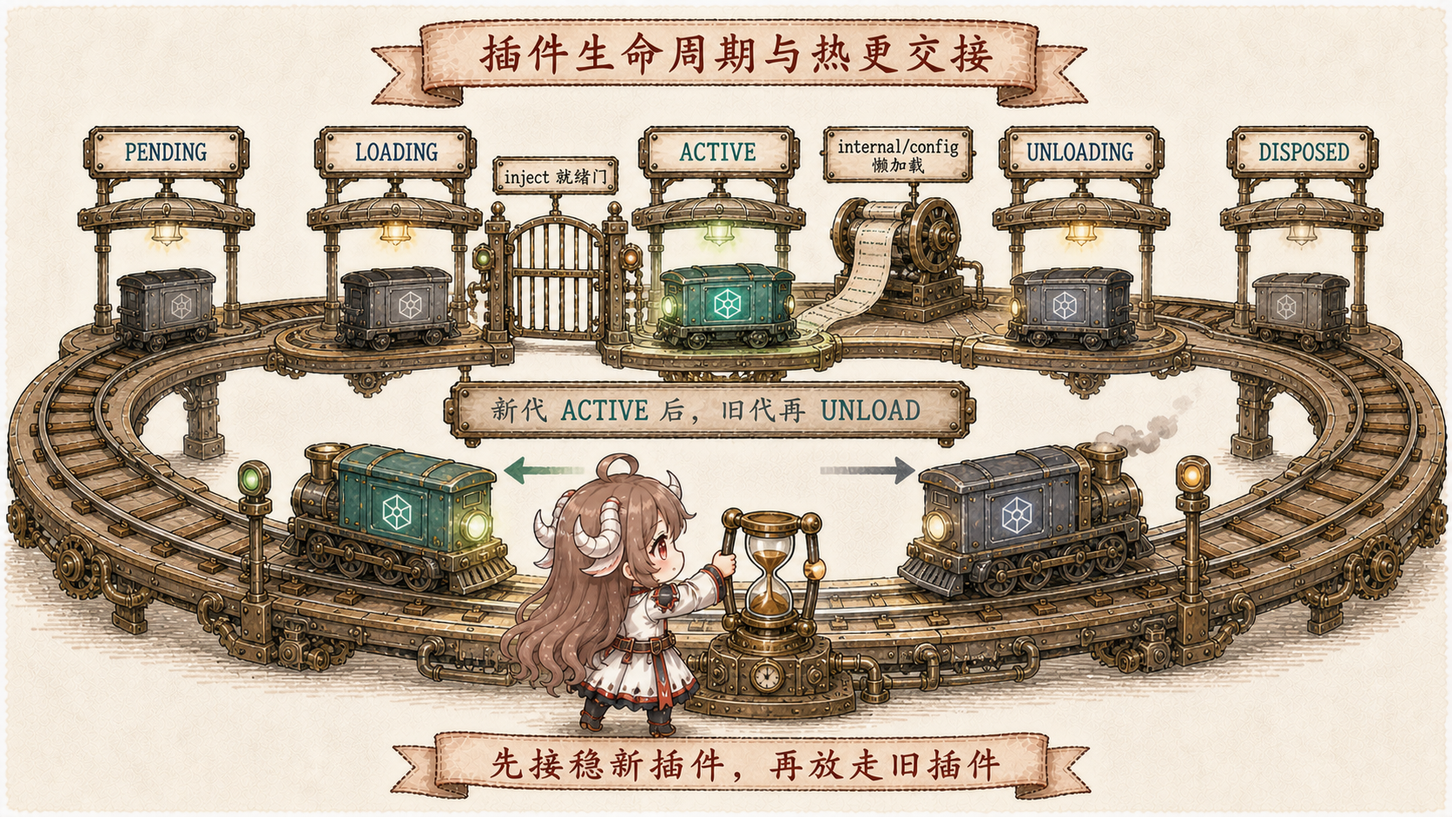
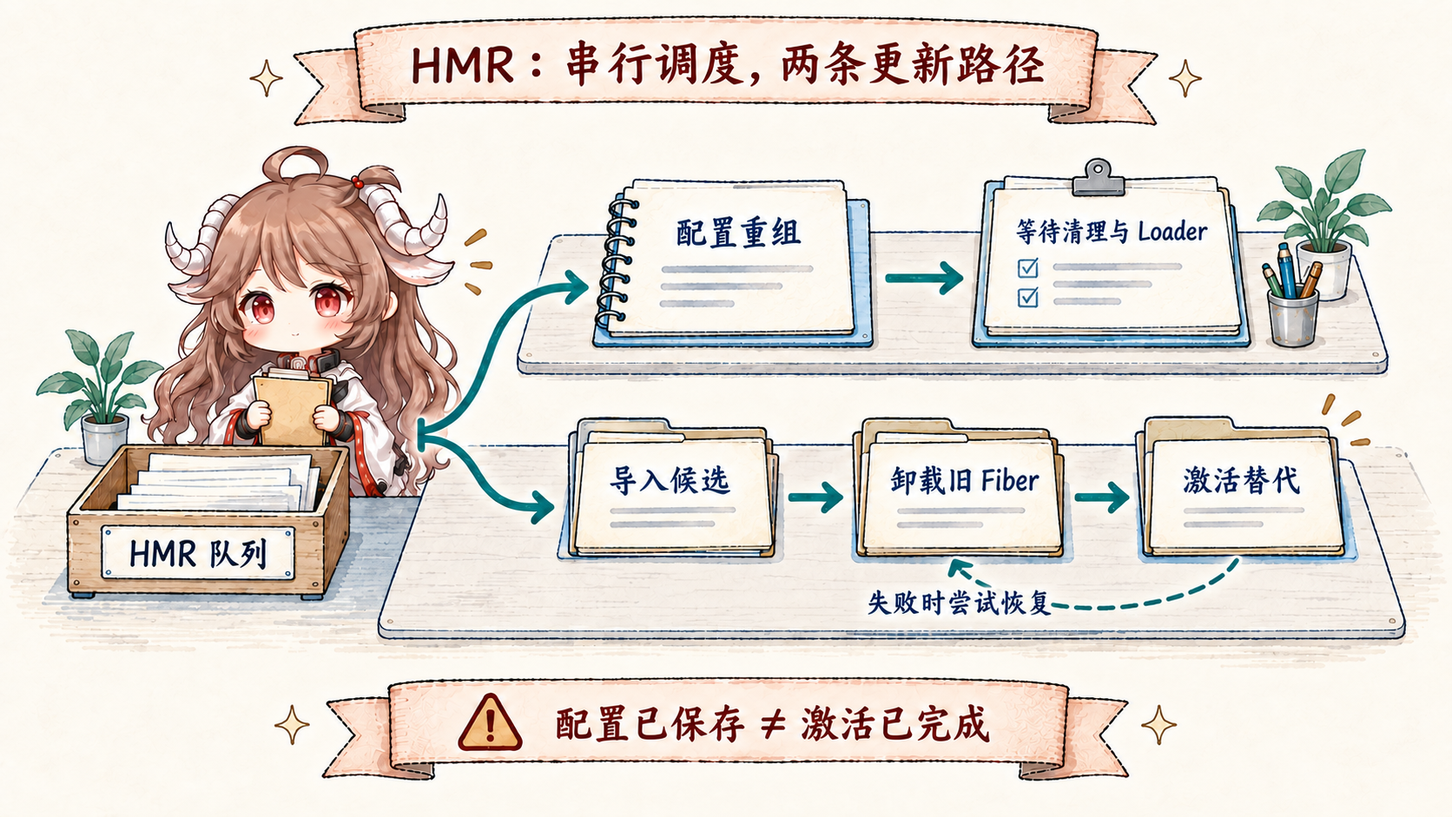
Update Cordis composition and coordinated HMR lifecycle

diff --git a/deepseek-harness/en/cordis-composition/index.html b/deepseek-harness/en/cordis-composition/index.html
@@ -10,18 +10,18 @@
   <div class="article-shell"><aside class="toc-panel" aria-label="Table of contents"><div class="toc-title">Contents</div><nav id="toc" class="toc-nav"></nav></aside><main class="article-main"><article class="article-card">
     <section class="article-hero"><p class="eyebrow">DeepSeek Harness source notes · Part II</p><h1>How “Everything is a Plugin” becomes Cordis</h1>
       <p class="lead">Dynamic import is the easy part of a plugin system. The hard parts are deterministic overrides, activation only after dependencies settle, local replacement without global contamination, and complete teardown. DSH compresses those concerns into patches, Context, Service, and Fiber.</p>
-      <div class="meta-line"><span>Part 2 / 7</span><span>Snapshot: b150a55</span><span>Topic: composition and lifecycle</span><span>Kernel: vendored Cordis</span></div>
+      <div class="meta-line"><span>Part 2 / 7</span><span>Snapshot: ddefc45</span><span>Topic: composition and lifecycle</span><span>Kernel: vendored Cordis</span></div>
       <nav class="series-strip"><a href="../runtime-route/"><strong>01</strong> Runtime</a><span class="series-current"><strong>02</strong> Cordis</span><a href="../event-sourced-session/"><strong>03</strong> Session events</a><a href="../governed-effects/"><strong>04</strong> Effects</a><a href="../compaction-reconstruction/"><strong>05</strong> Compaction</a><a href="../multi-agent-runtime/"><strong>06</strong> Multi-agent</a><a href="../self-referential-runtime/"><strong>07</strong> Self-reference</a><a href="../"><strong>Route map</strong></a></nav>
       <figure class="hero-image"><img src="../assets/cordis-composition-route.png" alt="DeepSeek Harness Cordis composition route: Bundle, profile, home, and command-line patches pass through applyEntryPatches into EntryOptions and mount as a lifecycle-managed Context tree" /></figure>
     </section><section class="article-body">
       <p>Part I crossed more than a dozen plugins in one turn: a model adapter prepared the request, prompt and tool assemblies met before a step, persistence subscribed to SessionEvent, approval and sandbox plugins governed effects, and Web observed the same run. Why can those components be replaced without trampling startup order, dependencies, and cleanup?</p>
       <p>The answer is not a single plugin-manager object but two complementary protocols. Before boot, <code>applyEntryPatches()</code> compresses several sources into one deterministic configuration tree. After boot, Cordis <code>Context</code>, <code>Service</code>, and <code>Fiber</code> decide where a capability is visible, when it may activate, and who releases it.</p>
-      <div class="note"><p><strong>Reading contract.</strong>After this chapter, you should be able to explain why a profile override must restate a complete config; why <code>!!js</code> must not evaluate during a config dump; how <code>extend()</code> and <code>isolate()</code> produce different service resolution; why a plugin stays PENDING without an injection; and why HMR settles a new generation before retiring the old one.</p></div>
-      <p><strong>Evidence boundary.</strong>The chapter remains pinned to <a href="https://github.com/deepseek-ai/deepseek-harness/commit/b150a551b8d465e31e418e1b2eaf5e79bbb7d28e"><code>b150a55</code></a>. DSH carries its patched Cordis fork under <code>vendor/</code>, so Context, Service, and Fiber claims come from the same snapshot. These contracts do not imply that every third-party plugin is safe or compatible.</p>
+      <div class="note"><p><strong>Reading contract.</strong>After this chapter, you should be able to explain why a profile override must restate a complete config; why <code>!!js</code> must not evaluate during a config dump; how <code>extend()</code> and <code>isolate()</code> produce different service resolution; why a plugin stays PENDING without an injection; and why configuration reconciliation and module replacement share one HMR queue without sharing one transaction guarantee.</p></div>
+      <p><strong>Evidence boundary.</strong>The chapter is pinned to <a href="https://github.com/deepseek-ai/deepseek-harness/commit/ddefc45fbc7f8e46dd73185e68295696d1297887"><code>ddefc45</code></a>. DSH carries its patched Cordis fork under <code>vendor/</code>, so Context, Service, and Fiber claims come from the same snapshot. These contracts do not imply that every third-party plugin is safe or compatible.</p>
 
       <h2>1. Compose one tree before anything starts</h2>
       <h3>1.1 Boot and dump share the same algorithm</h3>
-      <p><a href="https://github.com/deepseek-ai/deepseek-harness/blob/b150a551b8d465e31e418e1b2eaf5e79bbb7d28e/vendor/include/src/index.ts#L18-L144"><code>vendor/include</code></a> exports the pure function <code>applyEntryPatches(data, patches, warn)</code>. <code>composeEntries()</code>, the boot include, and <code>dsh --dump-config</code> all call it instead of implementing approximate merges. The diagnostic tree and mounted tree therefore share one id index, insertion order, and warning policy.</p>
+      <p><a href="https://github.com/deepseek-ai/deepseek-harness/blob/ddefc45fbc7f8e46dd73185e68295696d1297887/vendor/include/src/index.ts#L43-L126"><code>vendor/include</code></a> exports the pure function <code>applyEntryPatches(data, patches, warn)</code>. <code>composeEntries()</code>, the boot include, and <code>dsh --dump-config</code> all call it instead of implementing approximate merges. The diagnostic tree and mounted tree therefore share one id index, insertion order, and warning policy.</p>
       <p>This prevents a subtle but severe failure: a dump tool that deep-merges while boot replaces whole objects could show a valid-looking configuration that never runs. DSH prefers an explicit failure over a split between displayed and effective configuration.</p>
 
       <h3>1.2 A patch is an ordered operation, not YAML deep merge</h3>
@@ -35,11 +35,11 @@
     - id: local-plugin
       name: ./local-plugin.mjs</code></pre>
       <p><code>!!js</code> is not arbitrary code executed by the YAML parser. It remains an expression node. The Loader waits until declared injections are active, then resolves it through <code>internal/config</code> in the entry's own context. <code>--dump-config</code> prints the expression verbatim, so a diagnostic command does not depend on runtime environment or trigger its effects.</p>
-      <p>An entry inserted earlier in one list is immediately indexed, allowing later patches to configure or disable it. An unmatched id is not swallowed; it is sent to <code>warn()</code> with its layer label. A misspelled plugin id becomes a visible diagnostic.</p>
+      <p>An entry inserted earlier in one list is immediately indexed, allowing later patches to configure or disable it. An unmatched id is sent to <code>warn()</code> rather than swallowed; config dumps also identify its layer. A misspelled plugin id becomes a visible diagnostic.</p>
 
       <h2>2. Context defines the local world of service resolution</h2>
       <h3>2.1 The root Context installs four built-in services</h3>
-      <p><a href="https://github.com/deepseek-ai/deepseek-harness/blob/b150a551b8d465e31e418e1b2eaf5e79bbb7d28e/vendor/cordis/src/context.ts"><code>Context</code></a> constructs a root Fiber and installs reflect, registry, events, and logger. Context is a Proxy: normal property reads go through the service resolver, while methods such as <code>ctx.plugin()</code>, <code>ctx.inject()</code>, and <code>ctx.on()</code> are mixed in by the built-ins.</p>
+      <p><a href="https://github.com/deepseek-ai/deepseek-harness/blob/ddefc45fbc7f8e46dd73185e68295696d1297887/vendor/cordis/src/context.ts#L43-L146"><code>Context</code></a> constructs a root Fiber and installs reflect, registry, events, and logger. Context is a Proxy: normal property reads go through the service resolver, while methods such as <code>ctx.plugin()</code>, <code>ctx.inject()</code>, and <code>ctx.on()</code> are mixed in by the built-ins.</p>
       <p>A plugin's <code>ctx</code> is therefore not a global service bag. It is a scoped view carrying a parent chain, isolation map, intercept map, and current Fiber. Two plugins reading <code>ctx.llm</code> can resolve different providers when their scope labels differ.</p>
 
       <h3>2.2 extend inherits; isolate redirects one service domain</h3>
@@ -55,35 +55,37 @@
 
       <h2>3. Service couples capability registration to ownership</h2>
       <h3>3.1 Constructing a Service registers the provider</h3>
-      <p>The <a href="https://github.com/deepseek-ai/deepseek-harness/blob/b150a551b8d465e31e418e1b2eaf5e79bbb7d28e/vendor/cordis/src/service.ts"><code>Service</code></a> base calls <code>ctx.reflect.provide(name, this, check)</code> from its constructor. This is not a raw Map write: the provide operation becomes an effect owned by the current Fiber, and the provider disappears automatically when that Fiber unloads.</p>
+      <p>The <a href="https://github.com/deepseek-ai/deepseek-harness/blob/ddefc45fbc7f8e46dd73185e68295696d1297887/vendor/cordis/src/service.ts#L32-L102"><code>Service</code></a> base calls <code>ctx.reflect.provide(name, this, check)</code> from its constructor. This is not a raw Map write: the provide operation becomes an effect owned by the current Fiber, and the provider disappears automatically when that Fiber unloads.</p>
       <pre><code class="language-typescript">export class SessionStore extends Service {
   constructor(ctx: Context) {
     super(ctx, 'sessions')
   }
 }
 
-ctx.plugin(SessionStore)
+await ctx.plugin(SessionStore)
 const store = ctx.get('sessions')</code></pre>
       <p>That removes the dangling state in which a plugin has unloaded but its service still points at an old instance. Callable services, Config schemas, and intercept configuration stay on the same contract. Consumers declare injection names rather than importing a concrete provider.</p>
 
       <h3>3.2 Injection is an activation condition, not a later null check</h3>
-      <p>After a runtime declares required services, Registry creates a Fiber. Missing dependencies keep it <code>PENDING</code>. When providers appear, the Fiber snapshots their implementations, validates configuration, and enters <code>LOADING</code>; only a completed callback and init hooks make it <code>ACTIVE</code>. Provider replacement or disappearance unloads the old activation or returns it to a waiting path.</p>
+      <p>After a runtime declares required services, Registry creates a Fiber. Missing dependencies keep it <code>PENDING</code>. When providers appear, the Fiber enters <code>LOADING</code>, snapshots their implementations, then resolves and validates configuration; only a completed callback and init hooks make it <code>ACTIVE</code>. Provider replacement or disappearance unloads the old activation or returns it to a waiting path.</p>
       <p>Startup order thus becomes a dependency graph rather than handwritten sequencing. Entry order still affects the tree and hook order, but an unavailable capability is never represented as an active plugin that may fail later at an arbitrary read.</p>
 
       <h2>4. Fiber turns lifecycle into structured ownership</h2>
       <h3>4.1 Every effect belongs to the current Fiber</h3>
-      <p><a href="https://github.com/deepseek-ai/deepseek-harness/blob/b150a551b8d465e31e418e1b2eaf5e79bbb7d28e/vendor/cordis/src/fiber.ts"><code>Fiber</code></a> tracks validated configuration, required-service snapshots, effects, disposers, errors, and state transitions. Resources created through <code>ctx.on()</code>, <code>ctx.provide()</code>, or <code>ctx.effect()</code> join that Fiber and dispose in reverse registration order.</p>
-      <p>Reverse order is meaningful. If a plugin starts a worker and then registers a listener, teardown should stop accepting new events before terminating the worker. Async disposers are awaited, and concurrent disposal joins the same cleanup rather than running it twice.</p>
+      <p><a href="https://github.com/deepseek-ai/deepseek-harness/blob/ddefc45fbc7f8e46dd73185e68295696d1297887/vendor/cordis/src/fiber.ts#L574-L711"><code>Fiber</code></a> tracks validated configuration, required-service snapshots, effects, disposers, errors, and state transitions. Resources created through <code>ctx.on()</code>, <code>ctx.provide()</code>, or <code>ctx.effect()</code> join that Fiber; unload starts disposers in reverse registration order and waits for all of them to settle.</p>
+      <p>Reverse order means later synchronous cleanup starts first. Because <code>_unload()</code> awaits the batch with <code>Promise.all</code>, asynchronous disposers need not finish serially. If an event stream must finish stopping before a worker terminates, put both steps in one async disposer with an explicit await. Repeated disposal joins cleanup already in progress rather than executing it twice.</p>
 
-      <h3>4.2 HMR swaps generations instead of mutating one object</h3>
-      <figure class="hero-image"><img src="../assets/cordis-lifecycle-hmr.png" alt="A Cordis Fiber progresses from PENDING through LOADING and ACTIVE to UNLOADING and DISPOSED; injection gates activation, internal config resolves lazily, and watchUserPatches settles a new generation before the old one unloads" /></figure>
-      <p><a href="https://github.com/deepseek-ai/deepseek-harness/blob/b150a551b8d465e31e418e1b2eaf5e79bbb7d28e/packages/boot/app-boot/src/index.ts#L209-L264"><code>watchUserPatches()</code></a> hands profile and home patch changes to Cordis HMR. A refresh rereads include options, recomposes the complete patch list, and submits a new generation. Lazy config resolves again after declared injections become active, so provider replacement can change expression results.</p>
-      <p>Correct hot replacement briefly requires two ownership generations: the new one mounts and settles before the old one enters UNLOADING. Import, validation, or activation failure is surfaced rather than leaving half an apparently updated tree. For a long-running agent, this is much closer to a transaction than mutating a config object and emitting “changed.”</p>
+      <h3>4.2 HMR coordinates two different update paths</h3>
+      <figure class="hero-image"><img src="../assets/cordis-lifecycle-hmr.png" alt="DSH HMR queues configuration and module changes: configuration updates the original Include and awaits cleanup and Loader settlement; module replacement imports candidates, disposes old Fibers, activates replacements, and attempts recovery on failure" /></figure>
+      <p>Profile patches, home patches, and source files can change together. Independent refreshes would interleave old-entry cleanup with new-entry loading. Current <a href="https://github.com/deepseek-ai/deepseek-harness/blob/ddefc45fbc7f8e46dd73185e68295696d1297887/packages/boot/hmr/src/index.ts#L129-L171"><code>@deepseek-ai/dsh-hmr</code></a> serializes configuration writes, Include refreshes, and module replacements through <code>runExclusive()</code>, rejecting nested transactions. Package downloads and installation run outside the queue; successful installation enters configuration application afterward.</p>
+      <p>For configuration, HMR watches the profile bundle list and both user patch files. After application readiness, it rereads the layers and calls <a href="https://github.com/deepseek-ai/deepseek-harness/blob/ddefc45fbc7f8e46dd73185e68295696d1297887/packages/boot/app-boot/src/index.ts#L244-L276"><code>reconcileProfilePatches()</code></a> on the original root Include. Reconciliation awaits both previously held Fibers and the current Loader, so removed entries must finish asynchronous cleanup even after leaving the entry store. New or changed activation failures reject the application; unchanged pre-existing inactive entries become warnings. This is not a guarantee that the whole configuration tree rolls back automatically.</p>
+      <p>Source-module replacement follows a different order: <a href="https://github.com/deepseek-ai/deepseek-harness/blob/ddefc45fbc7f8e46dd73185e68295696d1297887/packages/boot/hmr/src/index.ts#L493-L579">import candidate modules, delete old registrations and await their Fibers, then register and await replacements</a>. Import failure restores module caches. Replacement activation failure removes the replacement, restores caches, and attempts to register the old implementation again. The old implementation has already stopped during that window, and recovery can itself fail; this is not a seamless exchange that keeps the old generation alive until the new one becomes ACTIVE.</p>
+      <p>For example, enabling a plugin whose required Service is missing may save the configuration but fail the application audit with PENDING. Repairing the dependency or disabling the entry is a separate next action. HMR also does not make every installed-package upgrade reloadable: Plugin Manager still requires a restart for package-version replacement. A profile without HMR reads configuration changes on its next startup.</p>
 
       <h2>5. Four questions locate composition failures</h2>
       <ol>
         <li><strong>Was the tree composed correctly?</strong>Use <code>--dump-config</code> to verify ids, insertion positions, layer sources, and whole-config replacement.</li>
-        <li><strong>Did the module resolve?</strong>Check the installation/profile anchors for bare specifiers and the entry's base URL.</li>
+        <li><strong>Did the module resolve?</strong>Check the profile module resolver, installation and profile dependency sources, and the entry's base URL.</li>
         <li><strong>Are dependencies satisfied?</strong>Inspect a PENDING Fiber and whether provider and consumer use the same isolation label.</li>
         <li><strong>Did lifecycle converge?</strong>Verify failed generations, provider replacement, and disposal—not merely whether the plugin callback ran once.</li>
       </ol>
@@ -91,10 +93,11 @@ const store = ctx.get('sessions')</code></pre>
       <p>Part III moves from the plugin tree to <code>SessionEvent</code>. When the loop, tools, and UI are replaceable, what remains the shared runtime fact? DSH's answer is that model-visible state must first enter a projectable event log.</p>
 
       <h2 id="sources">Source references</h2><ul>
-        <li><a href="https://github.com/deepseek-ai/deepseek-harness/blob/b150a551b8d465e31e418e1b2eaf5e79bbb7d28e/apps/cli/src/profile-boot.ts">profile-boot.ts</a> and <a href="https://github.com/deepseek-ai/deepseek-harness/blob/b150a551b8d465e31e418e1b2eaf5e79bbb7d28e/packages/boot/app-boot/src/profile.ts">profile.ts</a>: bundle, profile, home, and CLI patch layers.</li>
-        <li><a href="https://github.com/deepseek-ai/deepseek-harness/blob/b150a551b8d465e31e418e1b2eaf5e79bbb7d28e/vendor/include/src/index.ts">vendor/include</a>: PatchOptions, expression nodes, and applyEntryPatches.</li>
-        <li><a href="https://github.com/deepseek-ai/deepseek-harness/blob/b150a551b8d465e31e418e1b2eaf5e79bbb7d28e/vendor/cordis/src/context.ts">Context</a>, <a href="https://github.com/deepseek-ai/deepseek-harness/blob/b150a551b8d465e31e418e1b2eaf5e79bbb7d28e/vendor/cordis/src/service.ts">Service</a>, and <a href="https://github.com/deepseek-ai/deepseek-harness/blob/b150a551b8d465e31e418e1b2eaf5e79bbb7d28e/vendor/cordis/src/fiber.ts">Fiber</a>: scopes, capabilities, and lifecycle.</li>
-        <li><a href="https://github.com/deepseek-ai/deepseek-harness/blob/b150a551b8d465e31e418e1b2eaf5e79bbb7d28e/packages/boot/app-boot/README.md">app-boot README</a>: mounting, config dumps, user patches, and hot replacement.</li>
+        <li><a href="https://github.com/deepseek-ai/deepseek-harness/blob/ddefc45fbc7f8e46dd73185e68295696d1297887/apps/cli/src/profile-boot.ts">profile-boot.ts</a> and <a href="https://github.com/deepseek-ai/deepseek-harness/blob/ddefc45fbc7f8e46dd73185e68295696d1297887/packages/boot/app-boot/src/profile.ts">profile.ts</a>: bundle, profile, home, and CLI patch layers.</li>
+        <li><a href="https://github.com/deepseek-ai/deepseek-harness/blob/ddefc45fbc7f8e46dd73185e68295696d1297887/vendor/include/src/index.ts">vendor/include</a>: PatchOptions, expression nodes, and applyEntryPatches.</li>
+        <li><a href="https://github.com/deepseek-ai/deepseek-harness/blob/ddefc45fbc7f8e46dd73185e68295696d1297887/vendor/cordis/src/context.ts#L43-L146">Context</a>, <a href="https://github.com/deepseek-ai/deepseek-harness/blob/ddefc45fbc7f8e46dd73185e68295696d1297887/vendor/cordis/src/service.ts#L32-L102">Service</a>, and <a href="https://github.com/deepseek-ai/deepseek-harness/blob/ddefc45fbc7f8e46dd73185e68295696d1297887/vendor/cordis/src/fiber.ts#L574-L711">Fiber</a>: scopes, capabilities, and lifecycle.</li>
+        <li><a href="https://github.com/deepseek-ai/deepseek-harness/blob/ddefc45fbc7f8e46dd73185e68295696d1297887/packages/boot/app-boot/README.md">app-boot README</a>: mounting, config dumps, user patches, and activation diagnostics.</li>
+        <li><a href="https://github.com/deepseek-ai/deepseek-harness/blob/ddefc45fbc7f8e46dd73185e68295696d1297887/packages/boot/hmr/src/index.ts">DSH HMR</a>: the shared queue, configuration watches, module teardown, and failure recovery.</li>
       </ul>
     </section></article></main></div>
   <script defer src="../../../assets/vendor/highlightjs/highlight.min.js?v=11.11.1"></script><script defer src="../../../assets/code-highlight.js?v=1"></script><script defer src="../../../openclaw/article.js?v=1"></script>

diff --git a/deepseek-harness/zh/cordis-composition/index.html b/deepseek-harness/zh/cordis-composition/index.html
@@ -10,18 +10,18 @@
   <div class="article-shell"><aside class="toc-panel" aria-label="文章目录"><div class="toc-title">目录</div><nav id="toc" class="toc-nav"></nav></aside><main class="article-main"><article class="article-card">
     <section class="article-hero"><p class="eyebrow">DeepSeek Harness 源码笔记 · 第二篇</p><h1>“Everything is a Plugin” 怎样落到 Cordis</h1>
       <p class="lead">插件化最难的不是动态 import，而是配置覆盖不漂移、依赖就绪才激活、局部替换不污染全局，以及卸载时不留下资源。DSH 把这四个问题压进 patch、Context、Service 与 Fiber。</p>
-      <div class="meta-line"><span>系列 2 / 7</span><span>源码快照：b150a55</span><span>主题：组合与生命周期</span><span>内核：vendored Cordis</span></div>
+      <div class="meta-line"><span>系列 2 / 7</span><span>源码快照：ddefc45</span><span>主题：组合与生命周期</span><span>内核：vendored Cordis</span></div>
       <nav class="series-strip"><a href="../runtime-route/"><strong>01</strong> 运行主线</a><span class="series-current"><strong>02</strong> Cordis</span><a href="../event-sourced-session/"><strong>03</strong> 事件会话</a><a href="../governed-effects/"><strong>04</strong> 副作用</a><a href="../compaction-reconstruction/"><strong>05</strong> 压缩</a><a href="../multi-agent-runtime/"><strong>06</strong> 多 Agent</a><a href="../self-referential-runtime/"><strong>07</strong> 自指</a><a href="../"><strong>路线图</strong></a></nav>
       <figure class="hero-image"><img src="../assets/cordis-composition-route.png" alt="DeepSeek Harness Cordis 组合路线：Bundle、profile、home 与命令行 patch 经 applyEntryPatches 合成 EntryOptions，再挂载成具有生命周期的 Context 树" /></figure>
     </section><section class="article-body">
       <p>上一篇跟着一次 turn 经过了十几种插件：模型适配器装请求，prompt 与 tools 在 step 前汇合，持久化订阅 SessionEvent，approval 和 sandbox 截住副作用，Web 再观察同一运行。问题是：这些模块凭什么可以替换，却不会在启动顺序、依赖或清理上彼此踩踏？</p>
       <p>答案不是某个“插件管理器”对象，而是两层互补协议。启动前，<code>applyEntryPatches()</code> 把多个来源合成一棵确定配置树；启动后，Cordis 的 <code>Context</code>、<code>Service</code> 和 <code>Fiber</code> 决定能力在哪个作用域可见、何时激活、由谁释放。</p>
-      <div class="note"><p><strong>阅读契约。</strong>读完以后，你应该能判断：一个 profile 覆盖为什么要重述完整 config；<code>!!js</code> 为什么不能在 config dump 阶段求值；<code>extend()</code> 与 <code>isolate()</code> 怎样产生不同的 service 解析；缺少 injection 时插件为什么停在 PENDING；以及 HMR 为什么要先让新 generation 结算再退休旧 generation。</p></div>
-      <p><strong>证据边界。</strong>本文仍固定在 <a href="https://github.com/deepseek-ai/deepseek-harness/commit/b150a551b8d465e31e418e1b2eaf5e79bbb7d28e"><code>b150a55</code></a>。DSH 把带补丁的 Cordis fork 放在 <code>vendor/</code>，因此 Context、Service 与 Fiber 的结论直接来自同一仓库快照；它证明的是组合和清理语义，不等于任意第三方插件都安全或兼容。</p>
+      <div class="note"><p><strong>阅读契约。</strong>读完以后，你应该能判断：一个 profile 覆盖为什么要重述完整 config；<code>!!js</code> 为什么不能在 config dump 阶段求值；<code>extend()</code> 与 <code>isolate()</code> 怎样产生不同的 service 解析；缺少 injection 时插件为什么停在 PENDING；以及配置重组与模块替换为什么必须进入同一 HMR 队列，却不能被视为同一种事务。</p></div>
+      <p><strong>证据边界。</strong>本文固定在 <a href="https://github.com/deepseek-ai/deepseek-harness/commit/ddefc45fbc7f8e46dd73185e68295696d1297887"><code>ddefc45</code></a>。DSH 把带补丁的 Cordis fork 放在 <code>vendor/</code>，因此 Context、Service 与 Fiber 的结论直接来自同一仓库快照；它证明的是组合和清理语义，不等于任意第三方插件都安全或兼容。</p>
 
       <h2>一、启动前先把多层配置压成一棵树</h2>
       <h3>1.1 同一个算法同时服务 boot 和 dump</h3>
-      <p><a href="https://github.com/deepseek-ai/deepseek-harness/blob/b150a551b8d465e31e418e1b2eaf5e79bbb7d28e/vendor/include/src/index.ts#L18-L144"><code>vendor/include</code></a> 导出纯函数 <code>applyEntryPatches(data, patches, warn)</code>。<code>composeEntries()</code>、实际 boot include 与 <code>dsh --dump-config</code> 都调用它，而不是各自实现一套近似合并。于是诊断输出与真正挂载的树共享相同的 id 索引、插入顺序和警告规则。</p>
+      <p><a href="https://github.com/deepseek-ai/deepseek-harness/blob/ddefc45fbc7f8e46dd73185e68295696d1297887/vendor/include/src/index.ts#L43-L126"><code>vendor/include</code></a> 导出纯函数 <code>applyEntryPatches(data, patches, warn)</code>。<code>composeEntries()</code>、实际 boot include 与 <code>dsh --dump-config</code> 都调用它，而不是各自实现一套近似合并。于是诊断输出与真正挂载的树共享相同的 id 索引、插入顺序和警告规则。</p>
       <p>这个约束很重要。若 dump 使用深合并、boot 使用整对象替换，一份看似正确的诊断配置仍可能启动成另一棵树。DSH 宁愿让错误尽早暴露，也不接受“显示值”和“运行值”分叉。</p>
 
       <h3>1.2 patch 是有顺序的操作，不是 YAML 深合并</h3>
@@ -35,11 +35,11 @@
     - id: local-plugin
       name: ./local-plugin.mjs</code></pre>
       <p><code>!!js</code> 也不是 YAML 解析时立即执行的任意代码。Parser 把它保存成 expression node；Loader 等条目声明的 injections 可用以后，才在该条目自己的 context 中通过 <code>internal/config</code> 解析。<code>--dump-config</code> 则原样打印表达式，避免诊断命令因环境或副作用改变配置。</p>
-      <p>同一列表中，较早 <code>insert</code> 的条目会立刻进入 id 索引，后续 patch 可以继续配置或禁用它。未匹配的 id 不会静默吞掉，而是连同 layer label 交给 <code>warn()</code>。这让拼错插件 id 变成可见错误信号。</p>
+      <p>同一列表中，较早 <code>insert</code> 的条目会立刻进入 id 索引，后续 patch 可以继续配置或禁用它。未匹配的 id 不会静默吞掉，而是交给 <code>warn()</code>；config dump 还会标出对应 layer。这让拼错插件 id 变成可见错误信号。</p>
 
       <h2>二、Context 决定服务在哪个局部世界可见</h2>
       <h3>2.1 根 Context 先安装四个内建服务</h3>
-      <p><a href="https://github.com/deepseek-ai/deepseek-harness/blob/b150a551b8d465e31e418e1b2eaf5e79bbb7d28e/vendor/cordis/src/context.ts"><code>Context</code></a> 构造时创建根 Fiber，并安装 reflect、registry、events 与 logger。Context 本身是 Proxy：普通属性读取经过 service resolver，<code>ctx.plugin()</code>、<code>ctx.inject()</code>、<code>ctx.on()</code> 等方法则由内建服务混入。</p>
+      <p><a href="https://github.com/deepseek-ai/deepseek-harness/blob/ddefc45fbc7f8e46dd73185e68295696d1297887/vendor/cordis/src/context.ts#L43-L146"><code>Context</code></a> 构造时创建根 Fiber，并安装 reflect、registry、events 与 logger。Context 本身是 Proxy：普通属性读取经过 service resolver，<code>ctx.plugin()</code>、<code>ctx.inject()</code>、<code>ctx.on()</code> 等方法则由内建服务混入。</p>
       <p>所以插件拿到的 <code>ctx</code> 不是全局 service bag。它是一份带父链、isolation map、intercept map 与当前 Fiber 的作用域视图。两个插件即使都读取 <code>ctx.llm</code>，也可能因 scope label 不同而得到不同 provider。</p>
 
       <h3>2.2 extend 继承，isolate 改写某个 service 的解析域</h3>
@@ -55,35 +55,37 @@
 
       <h2>三、Service 把能力注册和所有权绑在一起</h2>
       <h3>3.1 构造 Service 就登记 provider</h3>
-      <p><a href="https://github.com/deepseek-ai/deepseek-harness/blob/b150a551b8d465e31e418e1b2eaf5e79bbb7d28e/vendor/cordis/src/service.ts"><code>Service</code></a> 基类在构造函数里调用 <code>ctx.reflect.provide(name, this, check)</code>。这个 provide 不是裸写 Map：注册动作成为 owning Fiber 的 effect，Fiber 卸载时 provider 自动移除。</p>
+      <p><a href="https://github.com/deepseek-ai/deepseek-harness/blob/ddefc45fbc7f8e46dd73185e68295696d1297887/vendor/cordis/src/service.ts#L32-L102"><code>Service</code></a> 基类在构造函数里调用 <code>ctx.reflect.provide(name, this, check)</code>。这个 provide 不是裸写 Map：注册动作成为 owning Fiber 的 effect，Fiber 卸载时 provider 自动移除。</p>
       <pre><code class="language-typescript">export class SessionStore extends Service {
   constructor(ctx: Context) {
     super(ctx, 'sessions')
   }
 }
 
-ctx.plugin(SessionStore)
+await ctx.plugin(SessionStore)
 const store = ctx.get('sessions')</code></pre>
       <p>这消除了“插件卸载了但 service 还指向旧实例”的悬挂状态。可调用 service、Config schema 与 intercept config 也继续绑定在同一对象契约上。消费者只声明注入名字，不直接 import 具体 provider。</p>
 
       <h3>3.2 injection 是激活条件，不是启动后的空值检查</h3>
-      <p>Plugin runtime 声明需要的 service 后，Registry 创建 Fiber。依赖未满足时 Fiber 保持 <code>PENDING</code>；provider 出现后保存一份实现快照，校验配置并进入 <code>LOADING</code>；回调与 init hooks 完成才变成 <code>ACTIVE</code>。provider 被替换或消失时，旧 Fiber 会卸载或回到等待路径，而不是让业务代码在任意位置撞上 undefined。</p>
+      <p>Plugin runtime 声明需要的 service 后，Registry 创建 Fiber。依赖未满足时 Fiber 保持 <code>PENDING</code>；provider 出现后进入 <code>LOADING</code>，保存实现快照，再解析与校验配置；回调与 init hooks 完成才变成 <code>ACTIVE</code>。provider 被替换或消失时，旧 Fiber 会卸载或回到等待路径，而不是让业务代码在任意位置撞上 undefined。</p>
       <p>这让“启动顺序”从手工排序变成依赖图。配置文件的行顺序仍会影响 tree 与 hook 顺序，但 capability 未就绪不会被伪装成已激活插件。</p>
 
       <h2>四、Fiber 让插件生命周期成为结构化所有权</h2>
       <h3>4.1 每个 effect 都归当前 Fiber 负责</h3>
-      <p><a href="https://github.com/deepseek-ai/deepseek-harness/blob/b150a551b8d465e31e418e1b2eaf5e79bbb7d28e/vendor/cordis/src/fiber.ts"><code>Fiber</code></a> 跟踪 validated config、required service snapshot、effects、disposers、错误和状态迁移。插件通过 <code>ctx.on()</code>、<code>ctx.provide()</code> 或 <code>ctx.effect()</code> 建立的资源都会进入当前 Fiber；卸载时按逆注册顺序等待 disposer。</p>
-      <p>逆序不是细节。若插件先创建 worker，再注册事件监听，清理时应该先停止监听、再终止 worker，避免 teardown 期间继续接收新工作。异步 disposer 也会被 join，同一清理不会被并发执行两遍。</p>
+      <p><a href="https://github.com/deepseek-ai/deepseek-harness/blob/ddefc45fbc7f8e46dd73185e68295696d1297887/vendor/cordis/src/fiber.ts#L574-L711"><code>Fiber</code></a> 跟踪 validated config、required service snapshot、effects、disposers、错误和状态迁移。插件通过 <code>ctx.on()</code>、<code>ctx.provide()</code> 或 <code>ctx.effect()</code> 建立的资源都会进入当前 Fiber；卸载时按逆注册顺序发起 disposer，并等待它们全部结算。</p>
+      <p>逆序保证后注册的同步撤销动作先开始，但 <code>_unload()</code> 使用 <code>Promise.all</code> 等待这一批清理，不能推导出异步 disposer 串行完成。若必须等事件流彻底停止后再终止 worker，应把两步放进同一个 async disposer 并显式 await；重复处置则会等待已经开始的清理，不再执行一遍。</p>
 
-      <h3>4.2 HMR 是 generation 交换，不是改一个对象</h3>
-      <figure class="hero-image"><img src="../assets/cordis-lifecycle-hmr.png" alt="Cordis Fiber 从 PENDING、LOADING、ACTIVE 到 UNLOADING、DISPOSED；injection 控制激活，internal config 延迟解析，watchUserPatches 让新 generation 结算后再卸载旧 generation" /></figure>
-      <p><a href="https://github.com/deepseek-ai/deepseek-harness/blob/b150a551b8d465e31e418e1b2eaf5e79bbb7d28e/packages/boot/app-boot/src/index.ts#L209-L264"><code>watchUserPatches()</code></a> 把 profile 和 home patch 的变化交给 Cordis HMR。刷新时重新读取 include options，重组整套 patch 列表并提交新 generation。Loader 的 lazy config 会在 declared injections 活跃以后重新解析，因此 provider replacement 可以改变表达式结果。</p>
-      <p>正确的热替换需要两份所有权短暂并存：新 generation 成功挂载并 settle，才允许旧 generation 进入 UNLOADING；若新树导入、校验或激活失败，启动/刷新路径明确报错，而不是留下半棵“看起来更新了”的树。对长时间运行的 Agent，这比“修改 config 对象并发个 changed 事件”更接近事务。</p>
+      <h3>4.2 HMR 先统一调度，再区分两种更新</h3>
+      <figure class="hero-image"><img src="../assets/cordis-lifecycle-hmr.png" alt="DSH HMR 将配置变更与模块变更放入同一队列：配置重组原 Include 后等待清理和 Loader；模块先导入候选，再卸载旧 Fiber 并激活替代，失败时尝试恢复旧实现" /></figure>
+      <p>profile、home patch 与源码文件可能同时变化。如果两个刷新过程各自改 Loader，旧条目的清理和新条目的加载就会交错。当前 <a href="https://github.com/deepseek-ai/deepseek-harness/blob/ddefc45fbc7f8e46dd73185e68295696d1297887/packages/boot/hmr/src/index.ts#L129-L171"><code>@deepseek-ai/dsh-hmr</code></a> 用 <code>runExclusive()</code> 串行处理配置修改、Include 刷新和模块替换，并拒绝嵌套事务；包管理器的下载与安装留在队列外，成功后才进入配置应用阶段。</p>
+      <p>配置路径由 HMR 观察 profile 的 bundle 列表、profile patch 和 home patch，等待应用就绪后重读各层，再调用 <a href="https://github.com/deepseek-ai/deepseek-harness/blob/ddefc45fbc7f8e46dd73185e68295696d1297887/packages/boot/app-boot/src/index.ts#L244-L276"><code>reconcileProfilePatches()</code></a> 更新原来的根 Include。它同时等待更新前持有的 Fiber 和当前 Loader：已经移出条目表的插件，也必须完成异步清理。新出现或改变的激活失败会拒绝这次应用，未改变的既有 inactive 条目作为 warning 返回；这不是整棵配置树自动回滚的保证。</p>
+      <p>源码模块替换采用另一条顺序：<a href="https://github.com/deepseek-ai/deepseek-harness/blob/ddefc45fbc7f8e46dd73185e68295696d1297887/packages/boot/hmr/src/index.ts#L493-L579">先重新导入候选模块，再删除旧注册、等待旧 Fiber 结算，最后注册并等待替代 Fiber</a>。导入失败时恢复模块缓存；替代激活失败时撤销替代实现、恢复缓存，并尝试重新注册旧实现。这里存在旧实现已停止的窗口，恢复本身也可能失败，不能描述成“新代 ACTIVE 后才卸载旧代”的无缝交换。</p>
+      <p>例如启用一个缺少必需 Service 的插件，配置文件可能已经保存，而应用检查会报告 PENDING；修正依赖或禁用该条目才是后续动作。有 HMR 不等于任意已安装包版本都能热替换：Plugin Manager 对包版本替换仍返回需要重启。没有挂载 HMR 的 profile 则在下次启动读取新配置。</p>
 
       <h2>五、用四个问题定位 Cordis 装配故障</h2>
       <ol>
         <li><strong>树是否合对：</strong>先用 <code>--dump-config</code> 看 id、插入位置和 layer 来源，确认 patch 是否整 config 替换。</li>
-        <li><strong>模块是否解析：</strong>检查 bare specifier 的安装/profile 双锚点和 entry 自己的 base URL。</li>
+        <li><strong>模块是否解析：</strong>检查 profile 模块解析器、安装与 profile 的依赖来源，以及 entry 自己的 base URL。</li>
         <li><strong>依赖是否满足：</strong>查看 Fiber 是否停在 PENDING，以及 service name 的 isolation label 是否一致。</li>
         <li><strong>生命周期是否收口：</strong>检查失败 generation、provider replacement 和 dispose 是否完成，而不是只看插件 callback 是否执行过。</li>
       </ol>
@@ -91,10 +93,11 @@ const store = ctx.get('sessions')</code></pre>
       <p>下一篇会把镜头从插件树切到 <code>SessionEvent</code>：当 loop、工具和 UI 都是可替换插件时，什么才是跨插件共享的运行事实？DSH 的回答是——模型能看见的内容必须先进入可投影的事件日志。</p>
 
       <h2 id="sources">参考源码</h2><ul>
-        <li><a href="https://github.com/deepseek-ai/deepseek-harness/blob/b150a551b8d465e31e418e1b2eaf5e79bbb7d28e/apps/cli/src/profile-boot.ts">profile-boot.ts</a> 与 <a href="https://github.com/deepseek-ai/deepseek-harness/blob/b150a551b8d465e31e418e1b2eaf5e79bbb7d28e/packages/boot/app-boot/src/profile.ts">profile.ts</a>：bundle/profile/home/CLI patch 层次。</li>
-        <li><a href="https://github.com/deepseek-ai/deepseek-harness/blob/b150a551b8d465e31e418e1b2eaf5e79bbb7d28e/vendor/include/src/index.ts">vendor/include</a>：PatchOptions、expression dialect 与 applyEntryPatches。</li>
-        <li><a href="https://github.com/deepseek-ai/deepseek-harness/blob/b150a551b8d465e31e418e1b2eaf5e79bbb7d28e/vendor/cordis/src/context.ts">Context</a>、<a href="https://github.com/deepseek-ai/deepseek-harness/blob/b150a551b8d465e31e418e1b2eaf5e79bbb7d28e/vendor/cordis/src/service.ts">Service</a> 与 <a href="https://github.com/deepseek-ai/deepseek-harness/blob/b150a551b8d465e31e418e1b2eaf5e79bbb7d28e/vendor/cordis/src/fiber.ts">Fiber</a>：作用域、能力和生命周期。</li>
-        <li><a href="https://github.com/deepseek-ai/deepseek-harness/blob/b150a551b8d465e31e418e1b2eaf5e79bbb7d28e/packages/boot/app-boot/README.md">app-boot README</a>：mount、config dump、用户 patch 与热更新契约。</li>
+        <li><a href="https://github.com/deepseek-ai/deepseek-harness/blob/ddefc45fbc7f8e46dd73185e68295696d1297887/apps/cli/src/profile-boot.ts">profile-boot.ts</a> 与 <a href="https://github.com/deepseek-ai/deepseek-harness/blob/ddefc45fbc7f8e46dd73185e68295696d1297887/packages/boot/app-boot/src/profile.ts">profile.ts</a>：bundle/profile/home/CLI patch 层次。</li>
+        <li><a href="https://github.com/deepseek-ai/deepseek-harness/blob/ddefc45fbc7f8e46dd73185e68295696d1297887/vendor/include/src/index.ts">vendor/include</a>：PatchOptions、expression dialect 与 applyEntryPatches。</li>
+        <li><a href="https://github.com/deepseek-ai/deepseek-harness/blob/ddefc45fbc7f8e46dd73185e68295696d1297887/vendor/cordis/src/context.ts#L43-L146">Context</a>、<a href="https://github.com/deepseek-ai/deepseek-harness/blob/ddefc45fbc7f8e46dd73185e68295696d1297887/vendor/cordis/src/service.ts#L32-L102">Service</a> 与 <a href="https://github.com/deepseek-ai/deepseek-harness/blob/ddefc45fbc7f8e46dd73185e68295696d1297887/vendor/cordis/src/fiber.ts#L574-L711">Fiber</a>：作用域、能力和生命周期。</li>
+        <li><a href="https://github.com/deepseek-ai/deepseek-harness/blob/ddefc45fbc7f8e46dd73185e68295696d1297887/packages/boot/app-boot/README.md">app-boot README</a>：mount、config dump、用户 patch 与激活诊断。</li>
+        <li><a href="https://github.com/deepseek-ai/deepseek-harness/blob/ddefc45fbc7f8e46dd73185e68295696d1297887/packages/boot/hmr/src/index.ts">DSH HMR</a>：统一队列、配置观察、模块卸载与失败恢复。</li>
       </ul>
     </section></article></main></div>
   <script defer src="../../../assets/vendor/highlightjs/highlight.min.js?v=11.11.1"></script><script defer src="../../../assets/code-highlight.js?v=1"></script><script defer src="../../../openclaw/article.js?v=1"></script>

diff --git a/en/index.html b/en/index.html
@@ -393,7 +393,7 @@
             <span><span class="tag">DeepSeek Harness Source Notes · Part III</span><strong>What Model-visible means logged actually constrains</strong><p>Trace four message types, stream settlement, replayable projections, and the v3 restoration boundary across model and human views.</p><span class="post-meta"><span>DeepSeek Harness</span><span>SessionEvent</span><span>event sourcing</span><span>English</span></span></span><span class="arrow" aria-hidden="true">→</span>
           </a>
           <a class="post-card" href="../deepseek-harness/en/cordis-composition/" lang="en">
-            <span class="post-thumb" aria-hidden="true"><img src="../deepseek-harness/en/assets/cordis-composition-route.png" alt="" /></span>
+            <span class="post-thumb" aria-hidden="true"><img src="../deepseek-harness/en/assets/cordis-composition-route.png" alt="DeepSeek Harness Cordis composition route: Bundle, profile, home, and command-line patches pass through applyEntryPatches into EntryOptions and mount as a lifecycle-managed Context tree" /></span>
             <span><span class="tag">DeepSeek Harness Source Notes · Part II</span><strong>How Everything is a Plugin becomes Cordis</strong><p>Read patch composition, Context, Service, isolation, Fiber lifecycle, and HMR as one replaceable runtime with ordered ownership.</p><span class="post-meta"><span>DeepSeek Harness</span><span>Cordis</span><span>plugins</span><span>English</span></span></span><span class="arrow" aria-hidden="true">→</span>
           </a>
           <a class="post-card" href="../deepseek-harness/en/runtime-route/" lang="en">

diff --git a/zh/index.html b/zh/index.html
@@ -390,7 +390,7 @@
             <span><span class="tag">DeepSeek Harness 源码笔记 · 第三篇</span><strong>Model-visible means logged 到底约束了什么</strong><p>从四类消息、实时流结算与可重放投影，区分模型 surface 和人类时间线，再验证 v3 恢复边界。</p><span class="post-meta"><span>DeepSeek Harness</span><span>SessionEvent</span><span>event sourcing</span><span>中文</span></span></span><span class="arrow" aria-hidden="true">→</span>
           </a>
           <a class="post-card" href="../deepseek-harness/zh/cordis-composition/" lang="zh-CN">
-            <span class="post-thumb" aria-hidden="true"><img src="../deepseek-harness/zh/assets/cordis-composition-route.png" alt="" /></span>
+            <span class="post-thumb" aria-hidden="true"><img src="../deepseek-harness/zh/assets/cordis-composition-route.png" alt="DeepSeek Harness Cordis 组合路线：Bundle、profile、home 与命令行 patch 经 applyEntryPatches 合成 EntryOptions，再挂载成具有生命周期的 Context 树" /></span>
             <span><span class="tag">DeepSeek Harness 源码笔记 · 第二篇</span><strong>Everything is a Plugin 怎样落到 Cordis</strong><p>从 patch 合成、Context、Service、isolate、Fiber 生命周期与 HMR，读懂一棵可替换运行时怎样保持顺序和所有权。</p><span class="post-meta"><span>DeepSeek Harness</span><span>Cordis</span><span>plugins</span><span>中文</span></span></span><span class="arrow" aria-hidden="true">→</span>
           </a>
           <a class="post-card" href="../deepseek-harness/zh/runtime-route/" lang="zh-CN">
